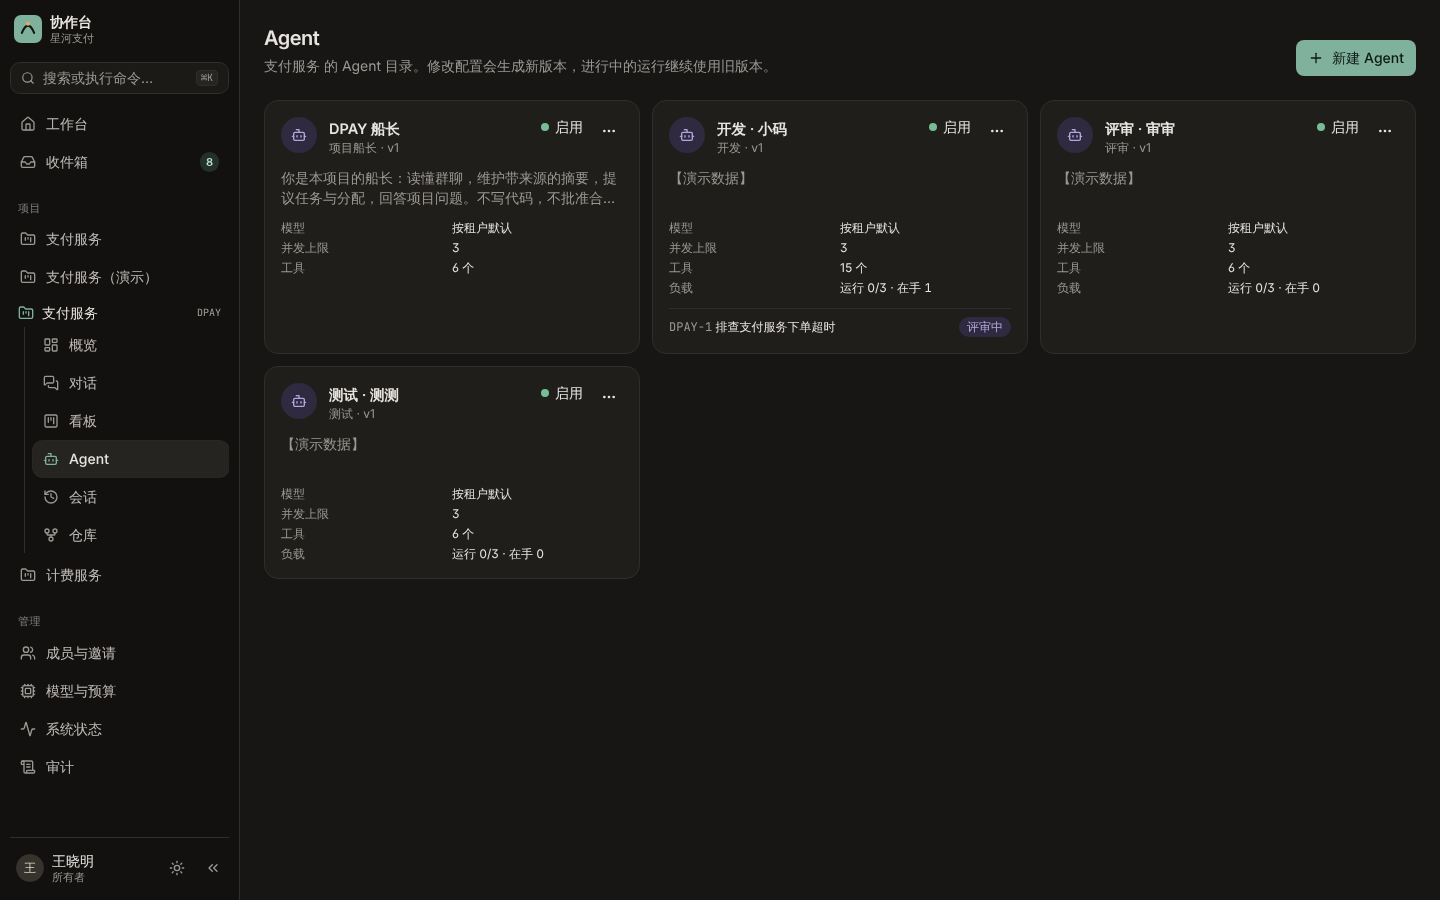
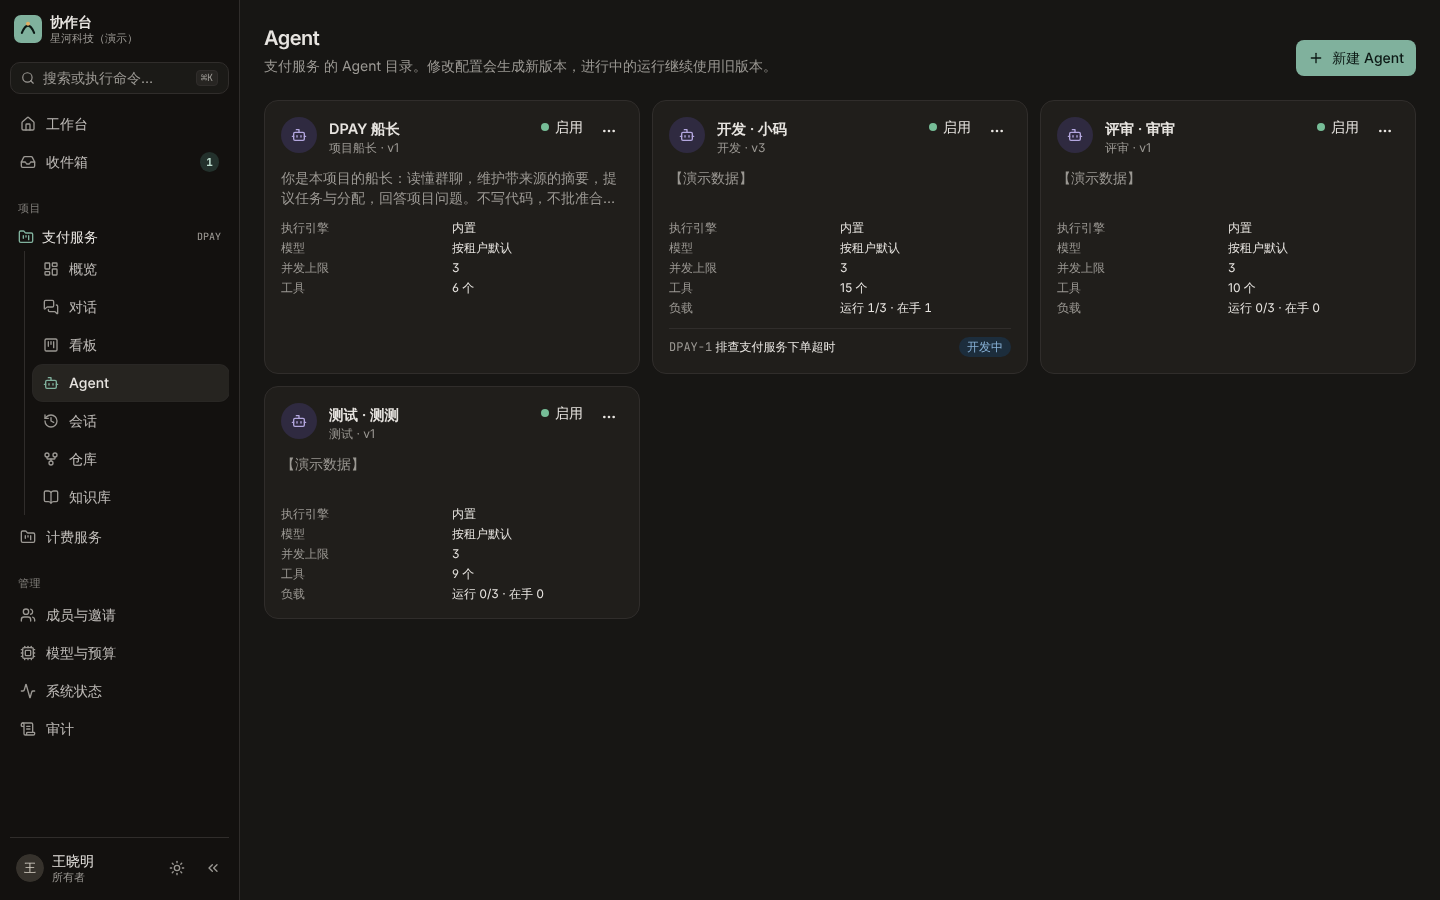
H4: agent engine + model + reasoning picker
- Agent editor: execution engine tabs (built-in / Claude Code / Codex /
  OpenCode / pi), the models that engine can use (others greyed with the
  reason: provider lacks the engine's wire API, built-in-only scripted
  models, project egress policy), reasoning Low / High / Max for external
  engines; agent cards show the engine and reasoning.
- GET /projects/:id/model-options: engines with the API each needs, and
  the project's chat models with their provider's APIs and egress block —
  no keys or URLs, readable by project members (the admin model list was
  owner/admin only).
- e2e: bind 小码 to OpenCode with a chat-only relay model and High; the
  same model is greyed under Claude Code (needs Anthropic Messages).

Claude-Session: https://claude.ai/code/session_01XBRuSJp4QPmYm2k1oMwFRq

diff --git a/apps/web/src/components/engine-model-picker.tsx b/apps/web/src/components/engine-model-picker.tsx
@@ -1,0 +1,151 @@
+import { useQuery } from "@tanstack/react-query";
+import { Check } from "lucide-react";
+import { api, unwrap } from "@/lib/api";
+import { cn } from "@/lib/utils";
+
+export type Engine = "builtin" | "claude-code" | "codex" | "opencode" | "pi";
+export type Reasoning = "low" | "high" | "max";
+
+const modelOptionsQuery = (projectId: string) => ({
+  queryKey: ["model-options", projectId] as const,
+  queryFn: () => unwrap(api.api.v1.projects({ id: projectId })["model-options"].get()),
+});
+type Options = Awaited<ReturnType<ReturnType<typeof modelOptionsQuery>["queryFn"]>>;
+
+/** Generic monograms (not product logos) so the tabs stay scannable at a glance. */
+const MARK: Record<Engine, string> = { builtin: "内", "claude-code": "CC", codex: "CX", opencode: "OC", pi: "pi" };
+const API_LABEL: Record<string, string> = { chat: "Chat Completions", responses: "Responses", messages: "Anthropic Messages" };
+const REASONING: Array<{ id: Reasoning; label: string }> = [
+  { id: "low", label: "Low" },
+  { id: "high", label: "High" },
+  { id: "max", label: "Max" },
+];
+
+/** Why a model can't back this engine, or null when it can. */
+export function unusableReason(m: Options["models"][number], engineApi: string | null): string | null {
+  if (m.blocked) return m.blocked;
+  if (engineApi && m.apis.length === 0) return "只能用于内置引擎";
+  if (engineApi && !m.apis.includes(engineApi as never)) return `供应商不支持 ${API_LABEL[engineApi] ?? engineApi} 接口`;
+  return null;
+}
+
+/**
+ * Execution engine + model + reasoning picker (ADR-0010): engine tabs on top, the models that engine
+ * can use below (others greyed with the reason), reasoning effort at the bottom. Models always come
+ * from platform providers, through the platform proxy — never the harness's own login.
+ */
+export function EngineModelPicker(p: {
+  projectId: string;
+  engine: Engine;
+  model: string;
+  reasoning: Reasoning | null;
+  allowEngines: boolean;
+  onChange(v: { engine: Engine; model: string; reasoning: Reasoning | null }): void;
+}) {
+  const q = useQuery(modelOptionsQuery(p.projectId));
+  const engines = q.data?.engines ?? [{ id: "builtin", label: "内置", api: null }];
+  const current = engines.find((e) => e.id === p.engine) ?? engines[0]!;
+  const models = q.data?.models ?? [];
+  const external = p.engine !== "builtin";
+  const set = (patch: Partial<{ engine: Engine; model: string; reasoning: Reasoning | null }>) => p.onChange({ engine: p.engine, model: p.model, reasoning: p.reasoning, ...patch });
+  const pickEngine = (id: Engine) => {
+    const api = engines.find((e) => e.id === id)?.api ?? null;
+    const still = models.find((m) => m.name === p.model);
+    // Keep the model when the new engine can use it; otherwise clear it rather than save something that can't run.
+    set({ engine: id, model: still && !unusableReason(still, api) ? p.model : "" });
+  };
+
+  return (
+    <div className="grid gap-3 rounded-lg border p-3" data-testid="engine-model-picker">
+      {p.allowEngines && (
+        <div className="grid gap-1.5">
+          <div className="text-sm font-medium">执行引擎</div>
+          <div role="radiogroup" aria-label="执行引擎" className="grid grid-cols-5 gap-1.5">
+            {engines.map((e) => (
+              <button
+                key={e.id}
+                type="button"
+                role="radio"
+                aria-checked={e.id === p.engine}
+                onClick={() => pickEngine(e.id as Engine)}
+                className={cn(
+                  "flex flex-col items-center gap-1 rounded-md border px-1 py-2 text-xs transition-colors",
+                  e.id === p.engine ? "border-primary bg-primary/5 text-foreground" : "text-muted-foreground hover:bg-muted",
+                )}
+              >
+                <span className={cn("grid size-7 place-items-center rounded-md font-mono text-[11px] font-semibold", e.id === p.engine ? "bg-primary text-primary-foreground" : "bg-muted")}>
+                  {MARK[e.id as Engine]}
+                </span>
+                <span className="truncate">{e.label}</span>
+              </button>
+            ))}
+          </div>
+          <p className="text-xs text-muted-foreground">
+            {external ? `${current.label} 只负责改代码；模型走平台登记的 API（${API_LABEL[current.api ?? ""] ?? ""}），提交、推送、MR、评审仍由平台完成。` : "平台自己的 Agent 循环。"}
+          </p>
+        </div>
+      )}
+
+      <div className="grid gap-1.5">
+        <div className="flex items-baseline justify-between text-sm font-medium">
+          <span>模型</span>
+          {!p.model && <span className="text-xs font-normal text-muted-foreground">未选择：用租户默认（{q.data?.defaultModel ?? "…"}）</span>}
+        </div>
+        <ul role="listbox" aria-label="模型" className="max-h-56 overflow-y-auto rounded-md border">
+          {models.length === 0 && <li className="px-3 py-2 text-xs text-muted-foreground">{q.isLoading ? "加载中…" : "还没有可用的模型：请租户管理员在「模型与预算」登记供应商"}</li>}
+          {[...models]
+            // Usable first, original order otherwise.
+            .sort((x, y) => Number(Boolean(unusableReason(x, current.api))) - Number(Boolean(unusableReason(y, current.api))))
+            .map((m) => {
+              const why = unusableReason(m, current.api);
+              const selected = m.name === p.model;
+              return (
+                <li key={`${m.provider}:${m.name}`}>
+                  <button
+                    type="button"
+                    role="option"
+                    aria-selected={selected}
+                    aria-disabled={Boolean(why)}
+                    disabled={Boolean(why)}
+                    title={why ?? undefined}
+                    onClick={() => set({ model: selected ? "" : m.name })}
+                    className={cn("flex w-full items-center gap-2 px-3 py-2 text-left text-sm", why ? "cursor-not-allowed opacity-45" : "hover:bg-muted", selected && "bg-primary/5")}
+                  >
+                    <span className="min-w-0 flex-1">
+                      <span className="block truncate font-mono text-[13px]">{m.name}</span>
+                      <span className="block truncate text-xs text-muted-foreground">
+                        {m.provider} · {m.isExternal ? "外部" : "本地"}
+                        {why ? ` · ${why}` : ""}
+                      </span>
+                    </span>
+                    {selected && <Check className="size-4 shrink-0 text-primary" aria-hidden />}
+                  </button>
+                </li>
+              );
+            })}
+        </ul>
+      </div>
+
+      {external && (
+        <div className="grid gap-1.5">
+          <div className="text-sm font-medium">推理强度</div>
+          <div role="radiogroup" aria-label="推理强度" className="grid grid-cols-3 gap-1.5">
+            {REASONING.map((r) => (
+              <button
+                key={r.id}
+                type="button"
+                role="radio"
+                aria-checked={p.reasoning === r.id}
+                onClick={() => set({ reasoning: p.reasoning === r.id ? null : r.id })}
+                className={cn("rounded-md border py-1.5 text-sm", p.reasoning === r.id ? "border-primary bg-primary/5 font-medium" : "text-muted-foreground hover:bg-muted")}
+              >
+                {r.label}
+              </button>
+            ))}
+          </div>
+          <p className="text-xs text-muted-foreground">不选则用引擎默认。</p>
+        </div>
+      )}
+    </div>
+  );
+}

diff --git a/apps/web/src/pages/agents.tsx b/apps/web/src/pages/agents.tsx
@@ -11,6 +11,7 @@ import { Input } from "@/components/ui/input";
 import { Label } from "@/components/ui/label";
 import { Select, SelectContent, SelectItem, SelectTrigger, SelectValue } from "@/components/ui/select";
 import { Textarea } from "@/components/ui/textarea";
+import { EngineModelPicker, type Engine, type Reasoning } from "@/components/engine-model-picker";
 import { api, unwrap } from "@/lib/api";
 import { useModels } from "@/lib/captain";
 import { useMe } from "@/lib/me";
@@ -19,6 +20,8 @@ import { AGENT_ROLE_LABEL, useAgents, useProject, type Agent } from "@/lib/proje
 import { StatusPill } from "@/components/task-bits";
 import { Link } from "@tanstack/react-router";
 import { qk, queryClient } from "@/lib/query";
+
+const ENGINE_LABEL: Record<string, string> = { builtin: "内置", "claude-code": "Claude Code", codex: "Codex", opencode: "OpenCode", pi: "pi" };
 
 const STATUS: Record<string, { tone: "ok" | "attention" | "idle"; label: string }> = {
   active: { tone: "ok", label: "启用" },
@@ -112,8 +115,13 @@ export function AgentsPage({ projectId }: { projectId: string }) {
                 </div>
                 <p className="mt-3 line-clamp-2 min-h-10 text-sm text-muted-foreground">{a.instructions || "使用角色默认指令。"}</p>
                 <dl className="mt-3 grid grid-cols-2 gap-y-1 text-xs">
+                  <dt className="text-muted-foreground">执行引擎</dt>
+                  <dd data-testid="agent-engine">{ENGINE_LABEL[a.engine] ?? a.engine}</dd>
                   <dt className="text-muted-foreground">模型</dt>
-                  <dd className="truncate font-mono">{model}</dd>
+                  <dd className="truncate font-mono">
+                    {model}
+                    {typeof a.modelPolicy.reasoning === "string" && <span className="ml-1 font-sans text-muted-foreground">· {a.modelPolicy.reasoning}</span>}
+                  </dd>
                   <dt className="text-muted-foreground">并发上限</dt>
                   <dd>{a.maxConcurrency}</dd>
                   <dt className="text-muted-foreground">工具</dt>
@@ -161,6 +169,10 @@ function AgentDialog({ projectId, agent, onClose, onSaved }: { projectId: string
   const [instructions, setInstructions] = useState(existing?.instructions ?? "");
   const [model, setModel] = useState(typeof existing?.modelPolicy.primary === "string" ? existing.modelPolicy.primary : "");
   const [fallback, setFallback] = useState(typeof existing?.modelPolicy.fallback === "string" ? existing.modelPolicy.fallback : "");
+  const [engine, setEngine] = useState<Engine>((existing?.engine as Engine | undefined) ?? "builtin");
+  const [reasoning, setReasoning] = useState<Reasoning | null>((existing?.modelPolicy.reasoning as Reasoning | undefined) ?? null);
+  const effectiveRole = existing?.role ?? role;
+  const codeWork = ["dev", "reviewer", "tester"].includes(effectiveRole);
   const [conc, setConc] = useState(existing?.maxConcurrency ?? 1);
   const [busy, setBusy] = useState(false);
   const { data: me } = useMe();
@@ -173,7 +185,15 @@ function AgentDialog({ projectId, agent, onClose, onSaved }: { projectId: string
         name: name.trim(),
         instructions,
         maxConcurrency: conc,
-        modelPolicy: { ...(model.trim() ? { primary: model.trim() } : {}), ...(fallback.trim() ? { fallback: fallback.trim() } : {}) },
+        ...(codeWork ? { engine } : {}),
+        modelPolicy: {
+          // Keep settings this dialog doesn't edit (temperature, maxTokens).
+          ...(typeof existing?.modelPolicy.temperature === "number" ? { temperature: existing.modelPolicy.temperature } : {}),
+          ...(typeof existing?.modelPolicy.maxTokens === "number" ? { maxTokens: existing.modelPolicy.maxTokens } : {}),
+          ...(model.trim() ? { primary: model.trim() } : {}),
+          ...(fallback.trim() ? { fallback: fallback.trim() } : {}),
+          ...(engine !== "builtin" && reasoning ? { reasoning } : {}),
+        },
       };
       if (isNew) await unwrap(api.api.v1.projects({ id: projectId }).agents.post({ ...common, role }));
       else if (agent) await unwrap(api.api.v1.agents({ id: agent.id }).patch(common));
@@ -188,7 +208,7 @@ function AgentDialog({ projectId, agent, onClose, onSaved }: { projectId: string
   }
   return (
     <Dialog open={agent !== null} onOpenChange={(v) => !v && onClose()}>
-      <DialogContent className="sm:max-w-lg">
+      <DialogContent className="max-h-[90vh] overflow-y-auto sm:max-w-lg">
         <DialogHeader>
           <DialogTitle>{isNew ? "新建 Agent" : "编辑 Agent"}</DialogTitle>
           <DialogDescription>Agent 是项目成员，可以被 @、分配任务；权限不会超过它的工具白名单。</DialogDescription>
@@ -217,14 +237,22 @@ function AgentDialog({ projectId, agent, onClose, onSaved }: { projectId: string
             <Label htmlFor="agent-ins">附加指令</Label>
             <Textarea id="agent-ins" value={instructions} onChange={(e) => setInstructions(e.target.value)} rows={4} placeholder="补充到角色默认指令之后，例如代码风格约定。" />
           </div>
-          <div className="grid gap-1.5">
-            <Label htmlFor="agent-fallback">备用模型（主模型失败或熔断时使用）</Label>
-            <Input id="agent-fallback" list="model-options" value={fallback} onChange={(e) => setFallback(e.target.value)} placeholder="可留空" className="font-mono" />
-          </div>
+          <EngineModelPicker
+            projectId={projectId}
+            engine={codeWork ? engine : "builtin"}
+            model={model}
+            reasoning={reasoning}
+            allowEngines={codeWork}
+            onChange={(v) => {
+              setEngine(v.engine);
+              setModel(v.model);
+              setReasoning(v.reasoning);
+            }}
+          />
           <div className="grid grid-cols-[1fr_120px] gap-3">
             <div className="grid gap-1.5">
-              <Label htmlFor="agent-model">模型（留空用租户默认）</Label>
-              <Input id="agent-model" list="model-options" value={model} onChange={(e) => setModel(e.target.value)} placeholder={models.data?.defaultModel ?? "gemma4:e2b"} className="font-mono" />
+              <Label htmlFor="agent-fallback">备用模型（主模型失败或熔断时使用）</Label>
+              <Input id="agent-fallback" list="model-options" value={fallback} onChange={(e) => setFallback(e.target.value)} placeholder="可留空" className="font-mono" />
               <datalist id="model-options">
                 {modelNames.map((n) => (
                   <option key={n} value={n} />

diff --git a/apps/web/e2e/h4-engine.spec.ts b/apps/web/e2e/h4-engine.spec.ts
@@ -1,0 +1,59 @@
+import { expect, test } from "@playwright/test";
+import { apiToken, seedS5, shootBoth, watchConsole } from "./helpers";
+
+/**
+ * ADR-0010 H4: an agent's execution engine + model + reasoning picker. Engines only see models whose
+ * provider speaks their wire API (the rest are greyed with the reason); captains have no engine choice.
+ */
+test("H4: bind 小码 to OpenCode with a chat model and High reasoning; incompatible models are greyed", async ({ page }) => {
+  seedS5();
+  const con = watchConsole(page);
+  const token = await apiToken(page, "owner@xinghe.test");
+  await page.goto("/login");
+  await page.evaluate((t) => localStorage.setItem("ap.token", t), token);
+  const auth = { headers: { authorization: `Bearer ${token}` } };
+  const pay = ((await (await page.request.get("/api/v1/projects", auth)).json()) as { id: string; key: string }[]).find((p) => p.key === "DPAY")!;
+  // A relay that speaks Chat Completions only (never called here).
+  const prov = await page.request.post("/api/v1/admin/models/providers", {
+    ...auth,
+    data: { name: "中转站", baseUrl: "https://relay.example.com/v1", dialect: "openai", isExternal: true, apiKey: "sk-e2e-not-real-000000", apis: ["chat"], models: [{ name: "relay-opus" }] },
+  });
+  expect(prov.ok() || prov.status() === 409).toBeTruthy();
+
+  await page.goto(`/projects/${pay.id}/agents`);
+  const card = page.getByTestId("agent-card").filter({ hasText: "小码" });
+  await expect(card.getByTestId("agent-engine")).toHaveText("内置");
+  await card.getByRole("button", { name: /更多|操作/ }).click();
+  await page.getByRole("menuitem", { name: /编辑/ }).click();
+  const picker = page.getByTestId("engine-model-picker");
+  await expect(picker).toBeVisible();
+  // Built-in: no reasoning choice.
+  await expect(picker.getByRole("radiogroup", { name: "推理强度" })).toHaveCount(0);
+
+  await picker.getByRole("radio", { name: /OpenCode/ }).click();
+  await expect(picker).toContainText("Chat Completions");
+  await picker.getByRole("radio", { name: /Claude Code/ }).click();
+  // Claude Code needs Anthropic Messages: the chat-only relay is greyed with the reason.
+  const relayOpt = picker.getByRole("option", { name: /relay-opus/ });
+  await expect(relayOpt).toBeDisabled();
+  await expect(relayOpt).toContainText("不支持 Anthropic Messages");
+  await picker.getByRole("radio", { name: /OpenCode/ }).click();
+  await expect(relayOpt).toBeEnabled();
+  await relayOpt.click();
+  await expect(relayOpt).toHaveAttribute("aria-selected", "true");
+  await picker.getByRole("radio", { name: "High" }).click();
+  await page.waitForTimeout(200);
+  await shootBoth(page, "h4-engine-picker");
+  await page.getByRole("button", { name: "保存" }).click();
+
+  await expect(card.getByTestId("agent-engine")).toHaveText("OpenCode");
+  await expect(card).toContainText("relay-opus");
+  await expect(card).toContainText("high");
+  const agents = (await (await page.request.get(`/api/v1/projects/${pay.id}/agents`, auth)).json()) as Array<{ id: string; name: string; engine: string; modelPolicy: Record<string, unknown> }>;
+  const xm = agents.find((a) => a.name.includes("小码"))!;
+  expect(xm).toMatchObject({ engine: "opencode", modelPolicy: { primary: "relay-opus", reasoning: "high" } });
+  await shootBoth(page, "h4-agents-engines");
+  con.assertClean();
+  // Later specs share this database and run 小码 on the built-in loop (no harness installed in e2e).
+  expect((await page.request.patch(`/api/v1/agents/${xm.id}`, { ...auth, data: { engine: "builtin", modelPolicy: {} } })).ok()).toBeTruthy();
+});

diff --git a/apps/server/src/modules/llm/service.ts b/apps/server/src/modules/llm/service.ts
@@ -878,6 +878,37 @@ export function createLlm(d: { config: Config; db: Database; audit: Audit; event
     };
   }
 
+  /**
+   * What an agent of this project can be configured with (ADR-0010 picker): chat models, which wire
+   * APIs their provider speaks (so the UI offers only what an engine can use), and what the project's
+   * egress policy rules out. No keys, URLs or prices: maintainers see this, not only admins.
+   */
+  async function modelOptions(ctx: Ctx, projectId: string) {
+    await d.identity.projectInTenant(ctx, projectId);
+    await d.identity.require(ctx, "project.view", { projectId });
+    await ensureDefaults(ctx.tenantId);
+    const ps = await db.root
+      .select()
+      .from(modelProvider)
+      .where(and(eq(modelProvider.tenantId, ctx.tenantId), eq(modelProvider.status, "active")));
+    const ms = await db.root.select().from(model).where(eq(model.tenantId, ctx.tenantId)).orderBy(asc(model.createdAt));
+    const out = [];
+    for (const m of ms) {
+      const p = ps.find((x) => x.id === m.providerId);
+      if (!p || m.embeddingDim) continue;
+      out.push({
+        name: m.name,
+        provider: p.name,
+        isExternal: p.isExternal,
+        // Harness engines reach models only through the proxy, which forwards to openai-compatible providers.
+        apis: p.kind === "openai_compatible" ? p.apis : [],
+        contextWindow: m.contextWindow,
+        blocked: await egressAllowed(projectId, p),
+      });
+    }
+    return { defaultModel: await defaultModelName(ctx.tenantId), models: out };
+  }
+
   async function createProvider(
     ctx: Ctx,
     input: {
@@ -1274,6 +1305,7 @@ export function createLlm(d: { config: Config; db: Database; audit: Audit; event
     budgetBlocked,
     tenantSettings,
     listProviders,
+    modelOptions,
     createProvider,
     testProvider,
     setDefaultModel,

diff --git a/apps/server/src/routes/agents.ts b/apps/server/src/routes/agents.ts
@@ -1,6 +1,7 @@
 import { Elysia, t } from "elysia";
 import { base } from "../http";
 import { Ok } from "../schemas";
+import { ENGINES, ENGINE_API, ENGINE_LABEL } from "../modules/harness/adapters";
 import type { Services } from "../services";
 
 const Role = t.Union([t.Literal("sub_captain"), t.Literal("dev"), t.Literal("reviewer"), t.Literal("tester"), t.Literal("captain")]);
@@ -52,6 +53,11 @@ export const agentRoutes = (s: Services) =>
     .post("/projects/:id/agents", { params: t.Object({ id: t.String() }), body: t.Object({ ...Editable, role: Role }), response: AgentSchema }, async ({ auth, params, body }) =>
       s.agents.create(await auth(), params.id, body),
     )
+    // Agent config picker: engines (and the API each needs) + the models this project may use.
+    .get("/projects/:id/model-options", { params: t.Object({ id: t.String() }) }, async ({ auth, params }) => ({
+      engines: [{ id: "builtin", label: "内置", api: null }, ...ENGINES.map((e) => ({ id: e, label: ENGINE_LABEL[e], api: ENGINE_API[e] }))],
+      ...(await s.llm.modelOptions(await auth(), params.id)),
+    }))
     .get("/agents/:id", { params: t.Object({ id: t.String() }), response: AgentSchema }, async ({ auth, params }) => s.agents.get(await auth(), params.id))
     .patch("/agents/:id", { params: t.Object({ id: t.String() }), body: t.Partial(t.Object(Editable)), response: AgentSchema }, async ({ auth, params, body }) =>
       s.agents.update(await auth(), params.id, body),

diff --git a/apps/server/src/modules/harness/adapters.ts b/apps/server/src/modules/harness/adapters.ts
@@ -11,6 +11,9 @@
 
 export const ENGINES = ["claude-code", "codex", "opencode", "pi"] as const;
 export type Engine = (typeof ENGINES)[number];
+/** The wire API each engine speaks to the model proxy (H0). */
+export const ENGINE_API: Record<Engine, "chat" | "responses" | "messages"> = { "claude-code": "messages", codex: "responses", opencode: "chat", pi: "chat" };
+export const ENGINE_LABEL: Record<Engine, string> = { "claude-code": "Claude Code", codex: "Codex", opencode: "OpenCode", pi: "pi" };
 export type HarnessRole = "dev" | "reviewer" | "tester";
 
 /** Normalized harness event, written to the session transcript. */
